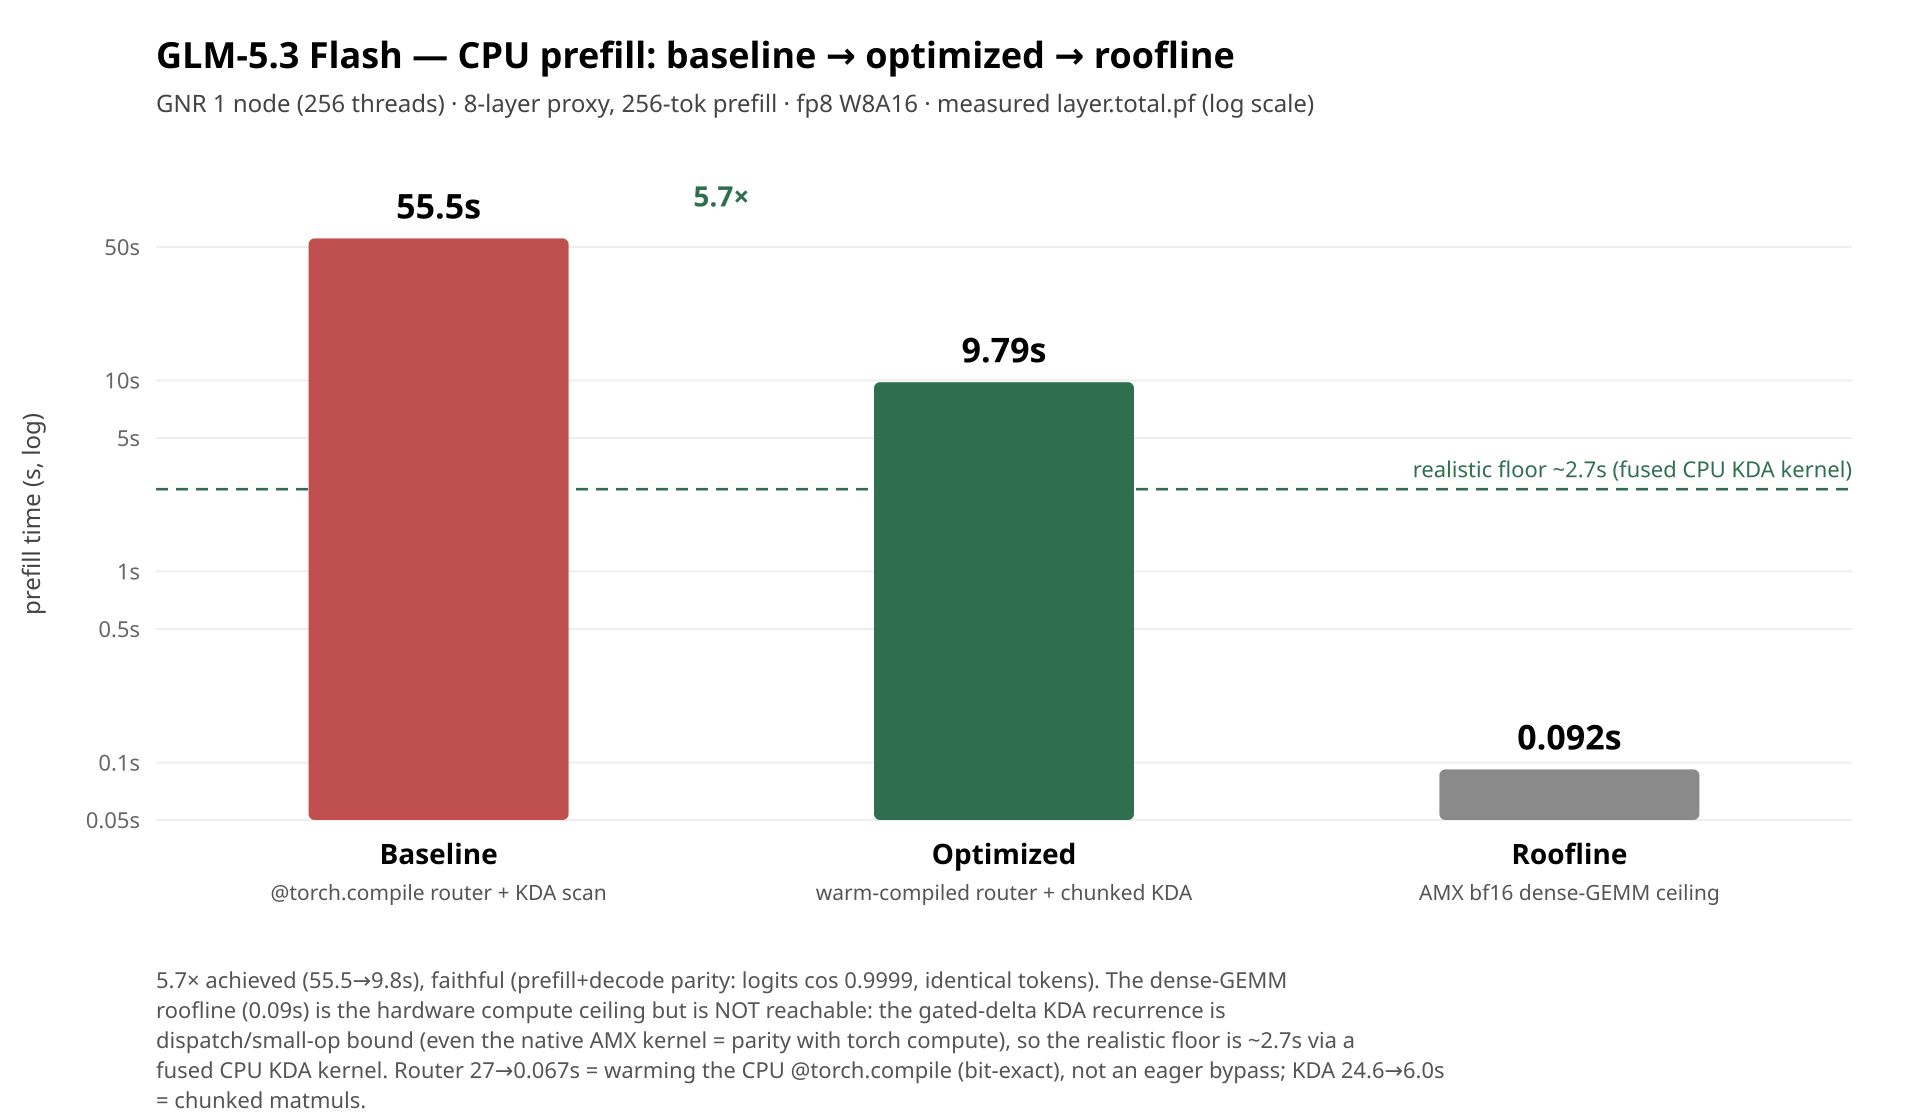
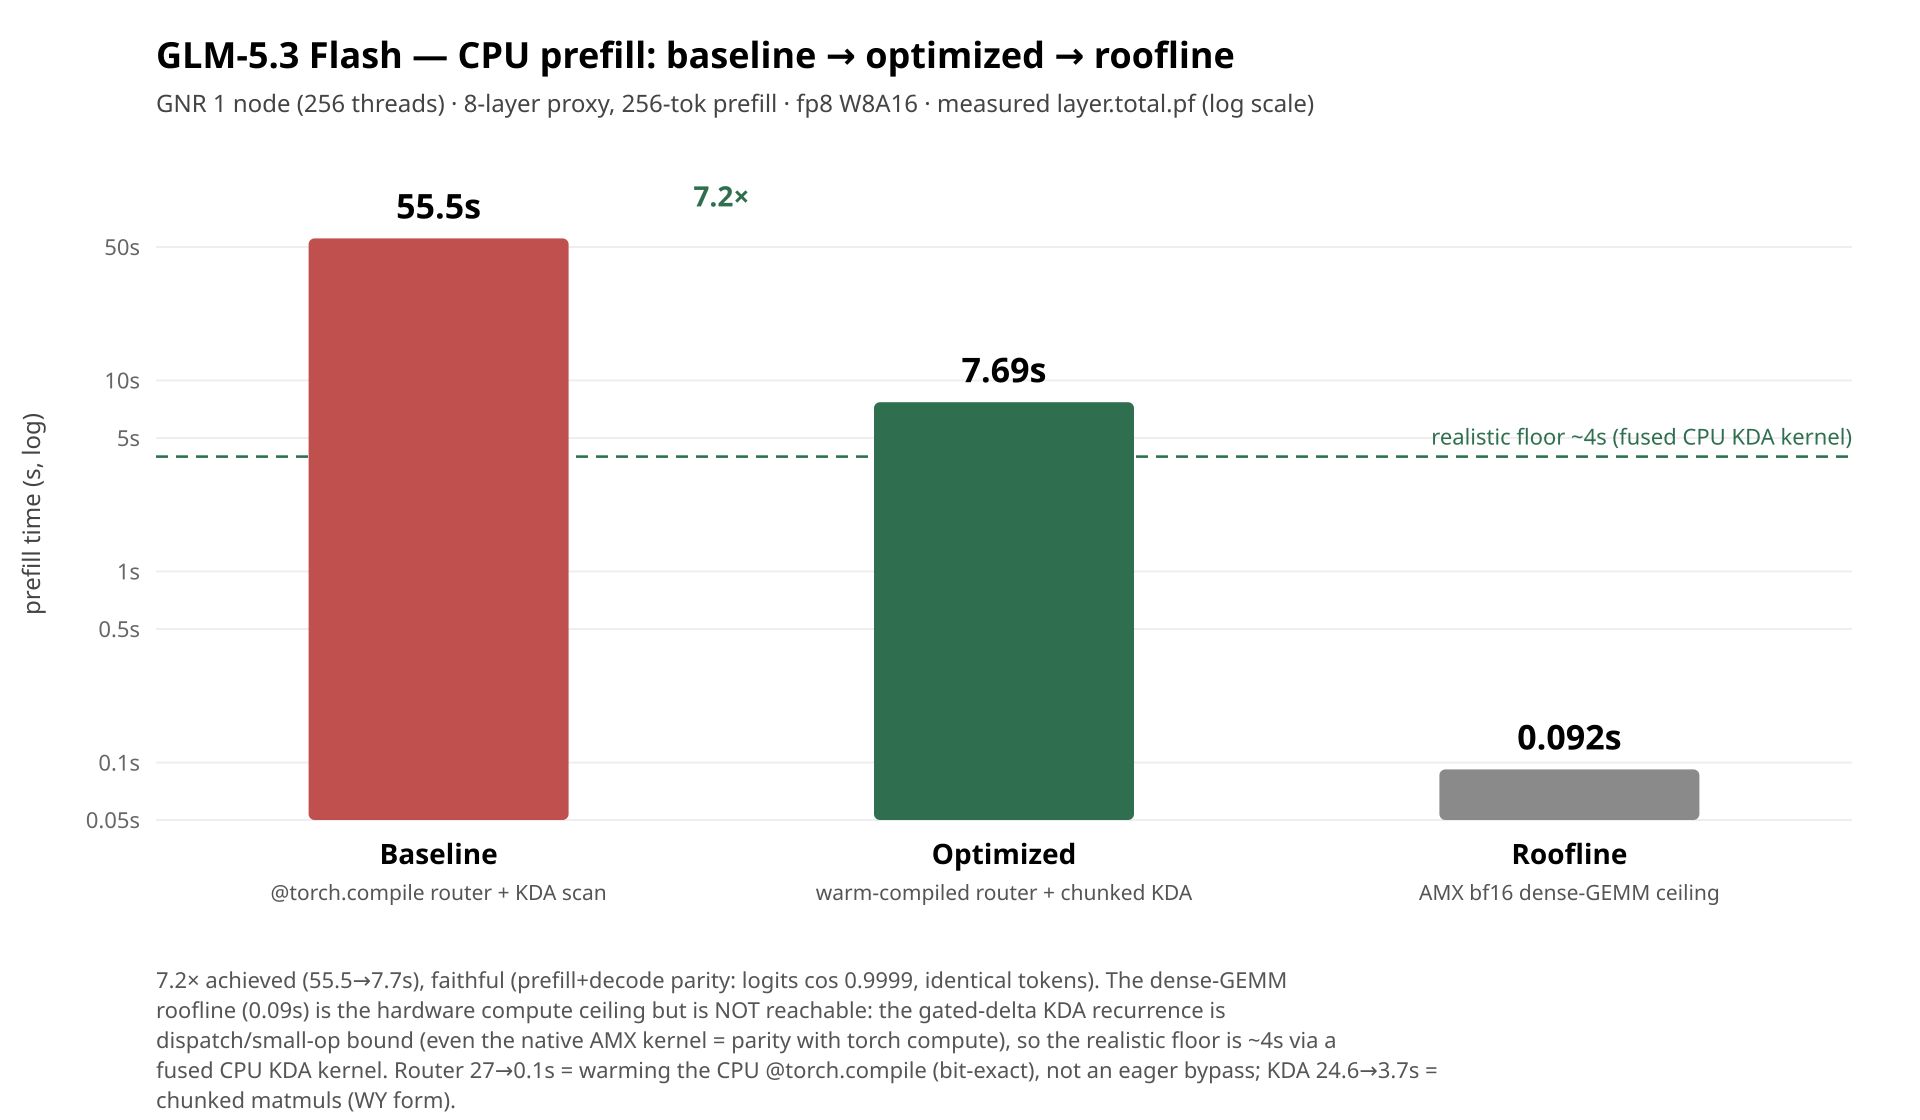
docs: GLM-5.3 Flash perf chart updated to measured batched default — prefill 55.5->7.7s (7.2x), KDA 24.6->3.7s (batched KDA golden-verified faithful, logits cos 0.999952)

diff --git a/plugin/validate/glm5_perf_chart.py b/plugin/validate/glm5_perf_chart.py
@@ -24,16 +24,16 @@ SUBTITLE = ("GNR 1 node (256 threads) \u00b7 8-layer proxy, 256-tok prefill \u00
 # (label, sublabel, seconds, color)
 BARS = [
     ("Baseline", "@torch.compile router + KDA scan", 55.5, "#c0504d"),
-    ("Optimized", "warm-compiled router + chunked KDA", 9.79, "#2f6f4f"),
+    ("Optimized", "warm-compiled router + chunked KDA", 7.69, "#2f6f4f"),
     ("Roofline", "AMX bf16 dense-GEMM ceiling", 0.092, "#8a8a8a"),
 ]
-FLOOR = 2.7  # realistic achievable floor (fused CPU KDA kernel), projected
+FLOOR = 4.0  # realistic achievable floor (fused CPU KDA kernel; non-KDA ops + overhead remain), projected
 FOOTNOTE = (
-    "5.7\u00d7 achieved (55.5\u21929.8s), faithful (prefill+decode parity: logits cos 0.9999, identical "
+    "7.2× achieved (55.5→7.7s), faithful (prefill+decode parity: logits cos 0.9999, identical "
     "tokens). The dense-GEMM roofline (0.09s) is the hardware compute ceiling but is NOT reachable: the "
     "gated-delta KDA recurrence is dispatch/small-op bound (even the native AMX kernel = parity with torch "
-    "compute), so the realistic floor is ~2.7s via a fused CPU KDA kernel. Router 27\u21920.067s = warming "
-    "the CPU @torch.compile (bit-exact), not an eager bypass; KDA 24.6\u21926.0s = chunked matmuls."
+    "compute), so the realistic floor is ~4s via a fused CPU KDA kernel. Router 27→0.1s = warming "
+    "the CPU @torch.compile (bit-exact), not an eager bypass; KDA 24.6→3.7s = chunked matmuls (WY form)."
 )
 
 
@@ -78,12 +78,12 @@ def build_svg() -> str:
                  f"text-anchor='middle'>{html.escape(label)}</text>")
         p.append(f"<text x='{cx:.1f}' y='{y0+40:.1f}' font-size='10.5' fill='#555' "
                  f"text-anchor='middle'>{html.escape(sub)}</text>")
-    # 5.7x arrow baseline -> optimized
+    # 7.2x arrow baseline -> optimized
     x1 = padL + slot * 0.5
     x2 = padL + slot * 1.5
     ay = yv(55.5) - 16
     p.append(f"<text x='{(x1+x2)/2:.1f}' y='{ay:.1f}' font-size='14' font-weight='bold' fill='#2f6f4f' "
-             f"text-anchor='middle'>5.7\u00d7</text>")
+             f"text-anchor='middle'>7.2\u00d7</text>")
     words, line, lines = FOOTNOTE.split(), "", []
     for w in words:
         if len(line) + len(w) + 1 > 120:

diff --git a/README.md b/README.md
@@ -238,25 +238,26 @@ Delivered as the same external plugin (`intel_cpu_models`) — no fork.
   across steps (argmax-identical logits, residual cos ~0.998). CPU inference is **bit-deterministic across
   thread counts** (so parity diffs hold node+bind constant). The remaining CPU-vs-GPU diff is the
   documented **W8A16-vs-W8A8** fp8-activation-quant difference (CPU is more precise), not a bug.
-- **Performance optimization — 5.7× prefill, faithful.** Measure-first on the real per-op profile:
+- **Performance optimization — 7.2× prefill, faithful.** Measure-first on the real per-op profile:
 
-  ![GLM-5.3 Flash CPU prefill: baseline 55.5s → optimized 9.8s (5.7×) → roofline, with the realistic fused-kernel floor](plugin/validate/results/glm5_flash_prefill_journey.png)
+  ![GLM-5.3 Flash CPU prefill: baseline 55.5s → optimized 7.7s (7.2×) → roofline, with the realistic fused-kernel floor](plugin/validate/results/glm5_flash_prefill_journey.png)
 
-  Two wins, both **bit-faithful** and env-gated: **(1) MoE router 27 → 0.067 s (~400×)** — the
+  Two wins, both **bit-faithful** and env-gated: **(1) MoE router 27 → ~0.1 s** — the
   288-expert torch router is `@torch.compile(dynamic=True)`, and on CPU that inductor compile is a ~50 s
   one-time cost that landed *inside* the timed prefill; the fix **warms the compile at init** (overlapped
   with weight load) and keeps the **compiled** path — *bit-exact* to baseline, unlike an eager bypass
-  which flips a borderline `topk` expert; **(2) KDA 24.6 → 6.0 s (4.1×)** — the per-token gated-delta scan
-  becomes **chunk-parallel matmuls** (WY form), validated to the scan oracle (rel ~3e-7). **Honest
-  ceiling:** the dense-GEMM roofline (~0.09 s) is *not* reachable — the recurrence is dispatch/small-op
-  bound (even the native AMX kernel is only parity with torch compute), so the realistic floor is ~2.7 s
-  via a fused CPU KDA kernel (scoped follow-up; the sgl-kernel AMX gated-delta kernel is **per-head** gate,
-  KDA needs **per-key**). Ledger: [glm5_perf_ledger.csv](plugin/validate/results/glm5_perf_ledger.csv).
+  which flips a borderline `topk` expert; **(2) KDA 24.6 → 3.7 s** — the per-token gated-delta scan
+  becomes **chunk-parallel matmuls** (WY form, batched across chunks), validated to the scan oracle
+  (real-weight fullcap: logits cos 0.999952, no layer diverges). **Honest ceiling:** the dense-GEMM
+  roofline (~0.09 s) is *not* reachable — the recurrence is dispatch/small-op bound (even the native AMX
+  kernel is only parity with torch compute), so the realistic floor is ~4 s via a fused CPU KDA kernel
+  (scoped follow-up; the sgl-kernel AMX gated-delta kernel is **per-head** gate, KDA needs **per-key**).
+  Ledger: [glm5_perf_ledger.csv](plugin/validate/results/glm5_perf_ledger.csv).
 
 **Remaining (scoped):** **gsm8k task-accuracy** on the full real-weight model (the final downstream
 sign-off; parity already makes it faithful by construction) and the **fused CPU KDA AMX kernel** (the
 ~2× further prefill headroom; build path de-risked). *The point of this section is the **velocity**: a
-structurally different architecture carried to proven **prefill+decode real-weight parity** and a **5.7×
+structurally different architecture carried to proven **prefill+decode real-weight parity** and a **7.2×
 faithful perf win** by the same playbook, with only the genuinely novel op (KDA) hand-authored.*
 
 ## Roofline target vs measured (published with every result)
